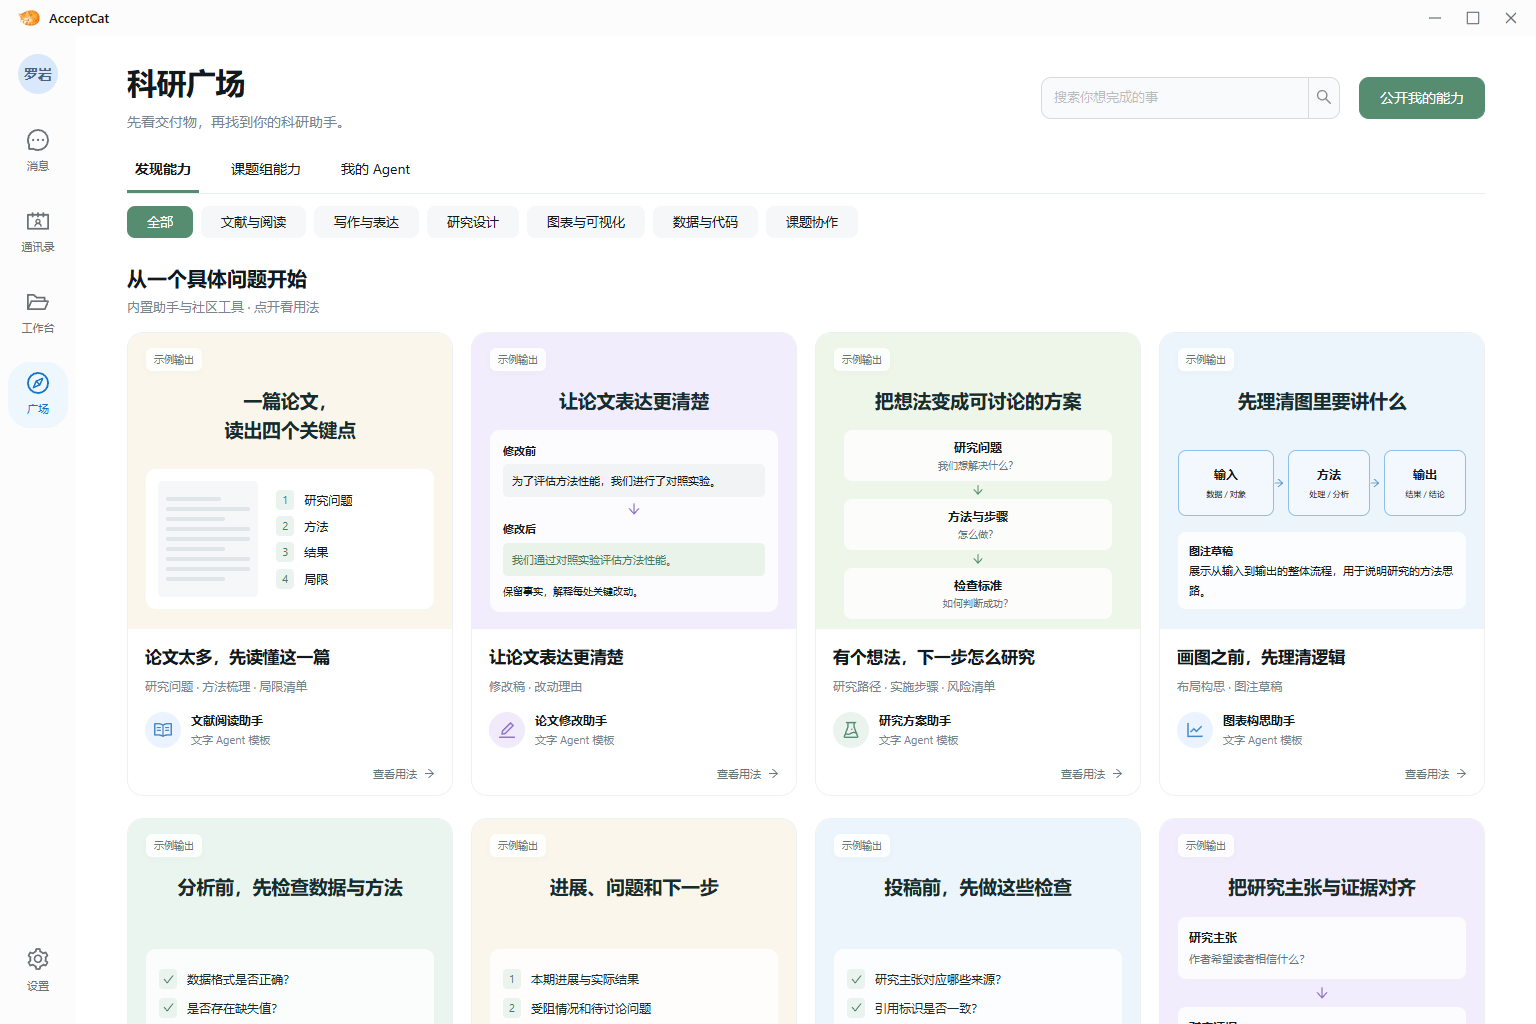
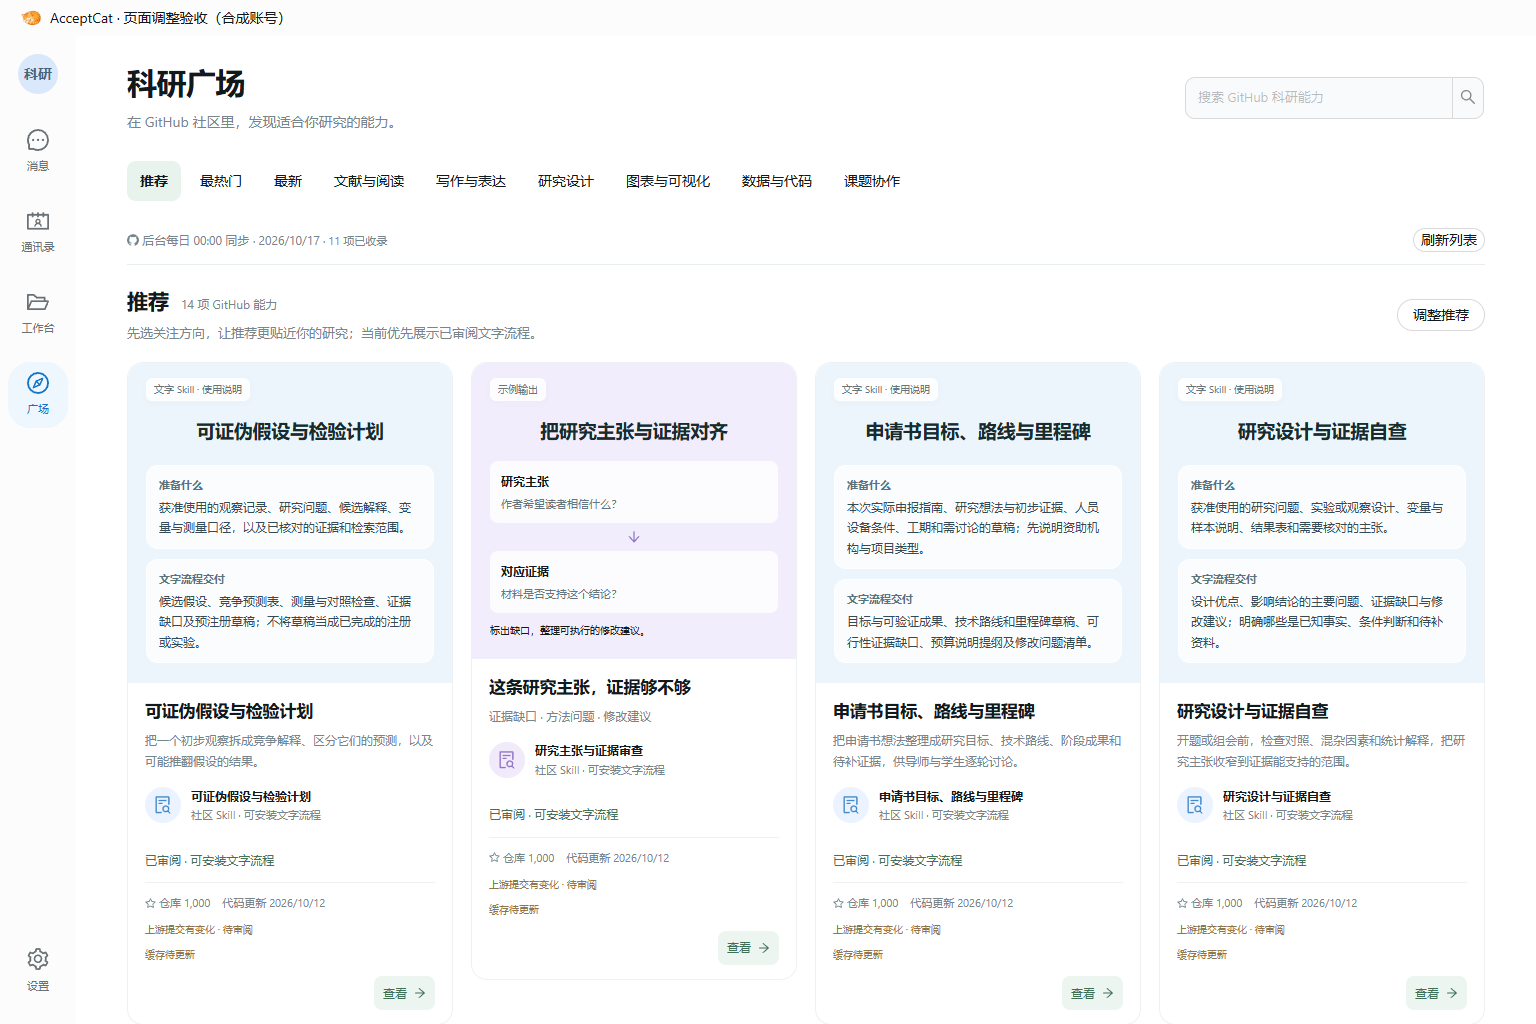
docs: refresh discovery preview and record Windows 0.10.11

diff --git a/docs/development/square-workbench-navigation.md b/docs/development/square-workbench-navigation.md
@@ -1,0 +1,42 @@
+# 科研广场与工作台入口分工
+
+日期2026-10-18（北京时间）。用户要求去掉广场顶部“发现能力/课题组能力/我的Agent”整排导航，把后两项放入工作台。分支 `release/acceptcat-0.10.11` 接续PR59 / 8b3386b，产品/安装包源码 **d0386f0503701eff530a89e0e282ecc93354901d**。
+
+## 实现
+
+`CapabilitySquare.tsx` 将现有浏览器组件的view作为固定输入；广场包装只传public，不再渲染范围导航，也没有空toolbar占位。保留GitHub推荐/Star热门/代码最新/方向、搜索、目录状态、已绑定Agent配置及现有权限流程。不是用CSS隐藏旧按钮，也没有复制另一套服务或管理逻辑。
+
+工作台增加独立栏目，复用 `WorkbenchCapabilities` 的固定view，切换时重挂载清理搜索/选择/弹窗，既有账号generation保护保持：
+
+| 入口 | URL | 内容 |
+| --- | --- | --- |
+| 广场 | `/square` | GitHub社区能力发现 |
+| 工作台→课题组能力 | `/workbench?view=capabilities` | 当前获准的课题组成员与Agent名片、配置及联系 |
+| 工作台→我的Agent | `/workbench?view=agents` | 本人Agent、内置模板添加、模型/资料/名片管理 |
+
+新栏目独立使用既有availability读取，不重复父层检查；隐藏无关的规划新任务按钮，资料库/技能/科研总览等栏目仍有原入口。面板内部h2与工作台h1分层，嵌套面板去除额外padding，栏目在必要时内部横向滚动，整页不横溢。未改变联系人范围、Agent权限、共享设置、API/数据库或后台目录运营。
+
+## 验证目标与实际结果
+
+入口流程：广场直接看到GitHub分类→工作台两个栏目→添加/配置本人Agent→资料绑定/公开名片管理；切换账号不保留他人的编辑入口。Browser plugin not available，使用已有Playwright及隔离Edge，验收页 `http://127.0.0.1:4866/__qa/index.html`，1536×1024及1024×726；真实React/API/SQLite，GitHub事实、账号和资料是明确合成样例，不计生产数据/IM/模型验证。
+
+| 检查 | 实际结果 |
+| --- | --- |
+| 页面身份与非空 | AcceptCat/科研广场标题、实际GitHub卡片、内置助手与课题组名片均读取通过 |
+| 旧导航移除 | public页没有capability-feed-tabs、范围按钮、空toolbar或内置模板区 |
+| 推荐/热门/最新/方向/搜索 | 原说明/顺序入口正常，Zotero检索及清空可用 |
+| 新入口 | 实际点击工作台栏目，URL分别agents/capabilities，原有技能/资料库/科研总览仍可访问 |
+| 添加和配置 | 模板明确添加保存真实私人Agent，可读其资料管理；实际保存本人私人集合绑定，按API读回同集合ID |
+| 名片管理 | 在工作台实际公开与撤回同一合成Agent名片，广场没有公开管理按钮 |
+| 账号隔离 | B不保留A的文献助手配置，B读取A的Agent绑定被拒绝，回到广场仍无管理范围导航 |
+| 截图/布局/控制台 | 1536/1024实拍已查看，无横溢/覆盖层，pageerror0，无未解释console错误 |
+
+7组分阶段实际流程与客户端 **27项定向测试**通过，`tsc --noEmit`通过。定向命令：`node --test tests/community-discovery.test.mjs tests/agent-card-actions.test.mjs tests/agent-chat-navigation.test.mjs`。没有共享代码/内置Skill变更，不重复根全套；前批PR59最新8b3386b三平台Foundation本轮实际读回SUCCESS，不冒称本批远端已通过。
+
+证据在Git外 `.runtime/square-workbench-20261018`。初始假目录事实数组只覆盖六个仓库、当前已七个，造成fixture响应500，修正数组取值后原API无需改动；另有错误CSS选择器、仅错误时才出现的重读按钮、confirm的无标题dialog/英文OK、旧技能标题定位与截图过渡动画失败。保留qa*.log/qa-failed-*.json/截图，分阶段续验保留前面已通过事实，不放宽产品ACL或限流；最终qa-proof.json合并检查与日志、注明checkpoint来源。Router未来标志/findDOMNode/既有bodyStyle警告及登出401/私人404分别解释。截图最终为square-1536/1024、team-1536/1024、agents-1024；早期动画截图不当作最终选中态证据。
+
+## 交付
+
+实际Windows0.10.11 NSIS、55运行依赖、15生产JS逐字节与dist一致、包内新入口/旧行移除/猫咪素材/无QA、安装器payload EXE与ASAR一致、隔离隐藏原生桥/renderer稳定启动通过；既有electron-log initialize警告保留。桌面文件 **87,401,103字节/SHA256 0c763b4dd18ea9f34c3d629327d83dc4bdf3f46f366a4668d273b8cbd0568530**，安装说明同目录；未代安装/关闭现装或删除旧包。[交付记录](../deployment/acceptcat-0.10.11.md)。README预览替换为当前真实组件截图，明确合成目录事实，不把截图数量/Star当作线上事实。
+
+本次无需后台升级/迁移；没有部署API/worker、发布目录、公共Release或更新源，actual latest仍v0.6.0已核实。原后台47c42ac/0.25/1.12/022与线上八项目录仅沿用记录，没有新inspect或读取私人材料。PR50后台边界、三项来源运营和既有维护登录仍独立待办。本轮自建4866/4867按完整Node命令核对关闭，旧预览保持。新的入口不会增加资料/脚本/模型权限，真实IM送达与科研模型质量仍分别验收。

diff --git a/docs/product-status.md b/docs/product-status.md
@@ -4,11 +4,11 @@
 
 ## 怎样体验
 
-- **小范围试用**：Windows x64 **0.10.10** 已制作并交付现有试用者，尚未上传公开 GitHub Release。已有包的团队退出旧客户端后覆盖安装，安装身份和数据目录保持。新团队可通过 [Issues](https://github.com/luoyan96/personal-agent/issues) 提交使用场景与试用意向；目前没有在 README 提供不存在的 0.10.10 公共下载链接。
+- **小范围试用**：Windows x64 **0.10.11** 已制作并交付现有试用者，尚未上传公开 GitHub Release。已有包的团队退出旧客户端后覆盖安装，安装身份和数据目录保持。新团队可通过 [Issues](https://github.com/luoyan96/personal-agent/issues) 提交使用场景与试用意向；目前没有在 README 提供不存在的 0.10.11 公共下载链接。
 - **公开下载**：实际 [latest Release](https://github.com/luoyan96/personal-agent/releases/latest) 为 **v0.6.0**，发表于2026-10-08，安装文件 `ResearchWeChat_0.6.0.exe`。它是早期版本，名称、界面与功能范围与最新预览不同，以对应 Release 说明为准。
 - **正式更新提示**：桌面“设置 → 版本更新”读取既有正式发布源；GitHub 分支有新代码、后台目录更新或本地制作了安装包，都不等于更新源已有新安装器。
 
[2 lines of base64/hex data omitted]
 
 ## 目前能做什么
 
@@ -24,7 +24,7 @@
 
 ## 源码与服务分别在哪里
 
-最新产品功能和0.10.10打包源码在[release/acceptcat-0.10.10](https://github.com/luoyan96/personal-agent/tree/release/acceptcat-0.10.10)，固定打包源码 `2485856`。素材可靠导入及名片/卡片/排序/下载已进入本地试用包；[交付记录](deployment/acceptcat-0.10.10.md)区分实际打包、前端模拟通信验证与生产待办。超长Skill正文边界仍待后台配套，新增三项目录仍待运营发布；不能仅凭本包断言这些已在线。
+最新产品功能和0.10.11打包源码在[release/acceptcat-0.10.11](https://github.com/luoyan96/personal-agent/tree/release/acceptcat-0.10.11)，固定打包源码 `d0386f0`。广场与工作台分工、素材导入及名片/卡片/排序/下载已进入本地试用包；[交付记录](deployment/acceptcat-0.10.11.md)区分实际打包、前端模拟通信验证与生产待办。超长Skill正文边界仍待后台配套，新增三项目录仍待运营发布；不能仅凭本包断言这些已在线。
 
 **默认分支应用代码仍是较早的0.3.0基线；更新首页文档不会自动合并全部功能分支、发布安装包或升级后台。** 开发最新产品功能时按上述集成分支和其贡献指南准备环境，不能从首页预览反推 `main` 已包含所有新功能。
 

diff --git a/docs/current-state.md b/docs/current-state.md
@@ -2,6 +2,16 @@
 
 更新日期：2026-10-18（北京时间）。这是快速交接入口；历史报告保留各自受测版本，不能直接当成当前线上状态。
 
+## 最新用户改动与Windows0.10.11：广场发现，工作台管理
+
+`release/acceptcat-0.10.11` 接续PR59 / 8b3386b，产品和安装包固定 **d0386f0503701eff530a89e0e282ecc93354901d**。按用户截图要求移除广场“发现能力/课题组能力/我的Agent”整排顶部导航，无空toolbar占位；广场保留GitHub推荐/Star热门/最新/方向与搜索。课题组能力、本人及内置助手移入工作台独立栏目（`view=capabilities`/`view=agents`），复用原配置、资料绑定、聊天和名片管理，不改授权/API。[实现和QA](development/square-workbench-navigation.md)。
+
+27项客户端/类型、7组分阶段真实React/API/SQLite与1536/1024实拍通过；实际模板添加/资料绑定读回、公开撤回、其他栏目及B隔离通过，pageerror0，无未解释console。fixture六仓库数组用于七仓库的500与选择器/标题/动画首败保留，修夹具后续验，不改产品ACL/限流。无共享/Skill内容修改、不重复根全套；前批PR59三平台SUCCESS已读回。证据Git外 `.runtime/square-workbench-20261018`，无真实IM、模型或生产私人数据验证。README当前预览明确合成目录事实。
+
+**Windows x64 NSIS0.10.11已交付桌面** `C:/Users/luo/Desktop/AcceptCat_0.10.11.exe` 及说明，**87,401,103字节** / SHA256 **0c763b4dd18ea9f34c3d629327d83dc4bdf3f46f366a4668d273b8cbd0568530**。实际55依赖/15生产JS/无旧范围行/无QA、安装器payload EXE和ASAR一致及隔离隐藏原生桥/renderer稳定启动通过，既有electron-log警告保留。[交付记录](deployment/acceptcat-0.10.11.md)。未代安装/关闭现装或删除旧包/数据。
+
+无需后台升级/迁移；未部署API/worker、发布目录、公共Release或更新源。实际latest仍v0.6.0已核对；旧47c42ac/0.25/1.12/022仅沿用记录，本轮未新inspect生产。PR50后台边界/三项目录运营/旧维护登录待办保持，不重复请求。自建4866/4867核对完整Node命令后关闭，旧预览未动。
+
 ## 最新技能库与Windows交付：0.10.10，素材导入范围与恢复
 
 `acceptcat-2`，`release/acceptcat-0.10.10` 接续PR58 / da6ec83，产品和包源码 **24858567a318ab4302f53eead42713e1405dea1f**。Skill原件加入资料库改用现有文件导入：选集合/读原件只准备，确认后才上传；保留原路径/修订/SHA256、首次快照/key的未知结果重试、已确认结果分流和范围变化阻断。读取期间锁定目标，换账号/会话/Skill/面板清除迟到结果；清单失败不再显示无原件，普通本机文件导入保持。[实现与QA](development/skill-material-import.md)。

diff --git a/docs/deployment/acceptcat-0.10.11.md b/docs/deployment/acceptcat-0.10.11.md
@@ -1,0 +1,28 @@
+# AcceptCat 0.10.11 Windows交付
+
+日期2026-10-18（北京时间）。分支 `release/acceptcat-0.10.11` 接续PR59 / 8b3386b，产品与安装包源码 **d0386f0503701eff530a89e0e282ecc93354901d**。
+
+## 本次改动
+
+- 广场去掉“发现能力/课题组能力/我的Agent”整排导航，直接显示GitHub推荐、最热门、最新和方向筛选。
+- 课题组能力移至工作台→课题组能力（`view=capabilities`），本人及内置助手移至工作台→我的Agent（`view=agents`）。
+- 配置/资料绑定/聊天动作/名片公开管理复用原流程，权限保持；工作台窄窗栏目与面板可用。
+
+客户端27项、类型、7组真实React/HTTP/SQLite分阶段流程与1536/1024实际截图通过，pageerror0，无未解释错误。没有共享/内置Skill修改，不重复根全套；前批PR59三平台Foundation本轮已读回SUCCESS。详情、首败与边界见[实现及QA](../development/square-workbench-navigation.md)，证据Git外 `.runtime/square-workbench-20261018`。合成账号与目录，不计真实模型/IM验证。
+
+## 实际安装文件
+
+- 生成：`clients/openim/release/Base/0.10.11/AcceptCat_0.10.11.exe`（Git忽略）。
+- 桌面：`C:/Users/luo/Desktop/AcceptCat_0.10.11.exe`，安装说明同目录。
+- **87,401,103字节**；SHA256 **0c763b4dd18ea9f34c3d629327d83dc4bdf3f46f366a4668d273b8cbd0568530**。
+- ASAR SHA256 **39da1e08a001525587bbe5ff6c5e9ce4b1638cca5ba3f2f18c71b1ff2710e19f**；EXE SHA256 **1feadbc7abd04344855e18f2ae10416b846a8b2e7b9a09f9d7833ab8cb4f1126**。
+
+真实Electron22.3.27/55运行依赖/NSIS/blockmap通过；ASAR版本与15生产JS逐字节一致、新入口/无旧范围行/品牌素材/无QA核对通过。实际安装器payload EXE和ASAR匹配受测win-unpacked，临时用户数据隐藏启动，原生桥及renderer稳定就绪；既有electron-log重复initialize警告保留。
+
+退出旧版后覆盖安装，无需先卸载。没有代安装、关闭现装或移除旧包与数据；应用身份/数据目录保持。只核对关闭本轮4866/4867 QA服务，旧预览保持。
+
+## 服务与公开发布
+
+本次是现有前端入口调整，无新API或迁移，兼容原服务；未部署API/worker、发布社区目录、公共Release或自动更新源。公网actual latest本轮核对仍v0.6.0；不是旧客户端更新按钮已能下载0.10.11。源码推送/PR与安装器公开发布分开管理。
+
+既有维护登录、PR50解析器边界和三项社区目录运营待办保持。本轮不新inspect生产容器，旧47c42ac/contract0.25/chat1.12/schema022仅沿用此前记录。

diff --git a/docs/roadmap.md b/docs/roadmap.md
@@ -2,6 +2,8 @@
 
 ## 科研能力中心分阶段推进（2026-10-10）
 
+2026-10-18：[广场/工作台分工与Windows0.10.11](deployment/acceptcat-0.10.11.md)已交付：广场只保留GitHub发现，移除整排管理范围导航；团队能力/我的Agent进入工作台，原添加/配置/资料与名片管理复用，27项/7组真实流程/两种桌面实拍及NSIS启动通过，无新后台依赖。继续根据真实师生使用反馈优化信息密度，不扩大连接器或自动公开范围。
+
 2026-10-18：[Skill素材导入与Windows0.10.10](deployment/acceptcat-0.10.10.md)已交付：先选集合与准备，再明确上传，复用既有幂等恢复和范围变化阻断，迟到结果隔离及清单失败状态修复。22项客户端、九组实际流程/普通导入和窄窗专项、实际NSIS/启动通过，无新后台接口。继续用获准课题材料评价使用体验；统计/绘图/脚本执行与来源运营分别验收，不把素材入库视为科研结果已验证。
 
 2026-10-18：[Windows0.10.9跨设备名片](deployment/acceptcat-0.10.9.md)已交付：真人/Agent可复制版本化口令，通讯录整段粘贴查找，真实服务/唯一ID隔离、单独审批与复制恢复、窄窗弹窗修复。50项客户端、九组实际流程/窄窗专项及真实NSIS/隔离启动通过，无新后台接口。后续继续师生真实协作反馈；仅分享定位不替代添加授权，维护登录及目录运营仍独立接续，不扩大C端连接器。
